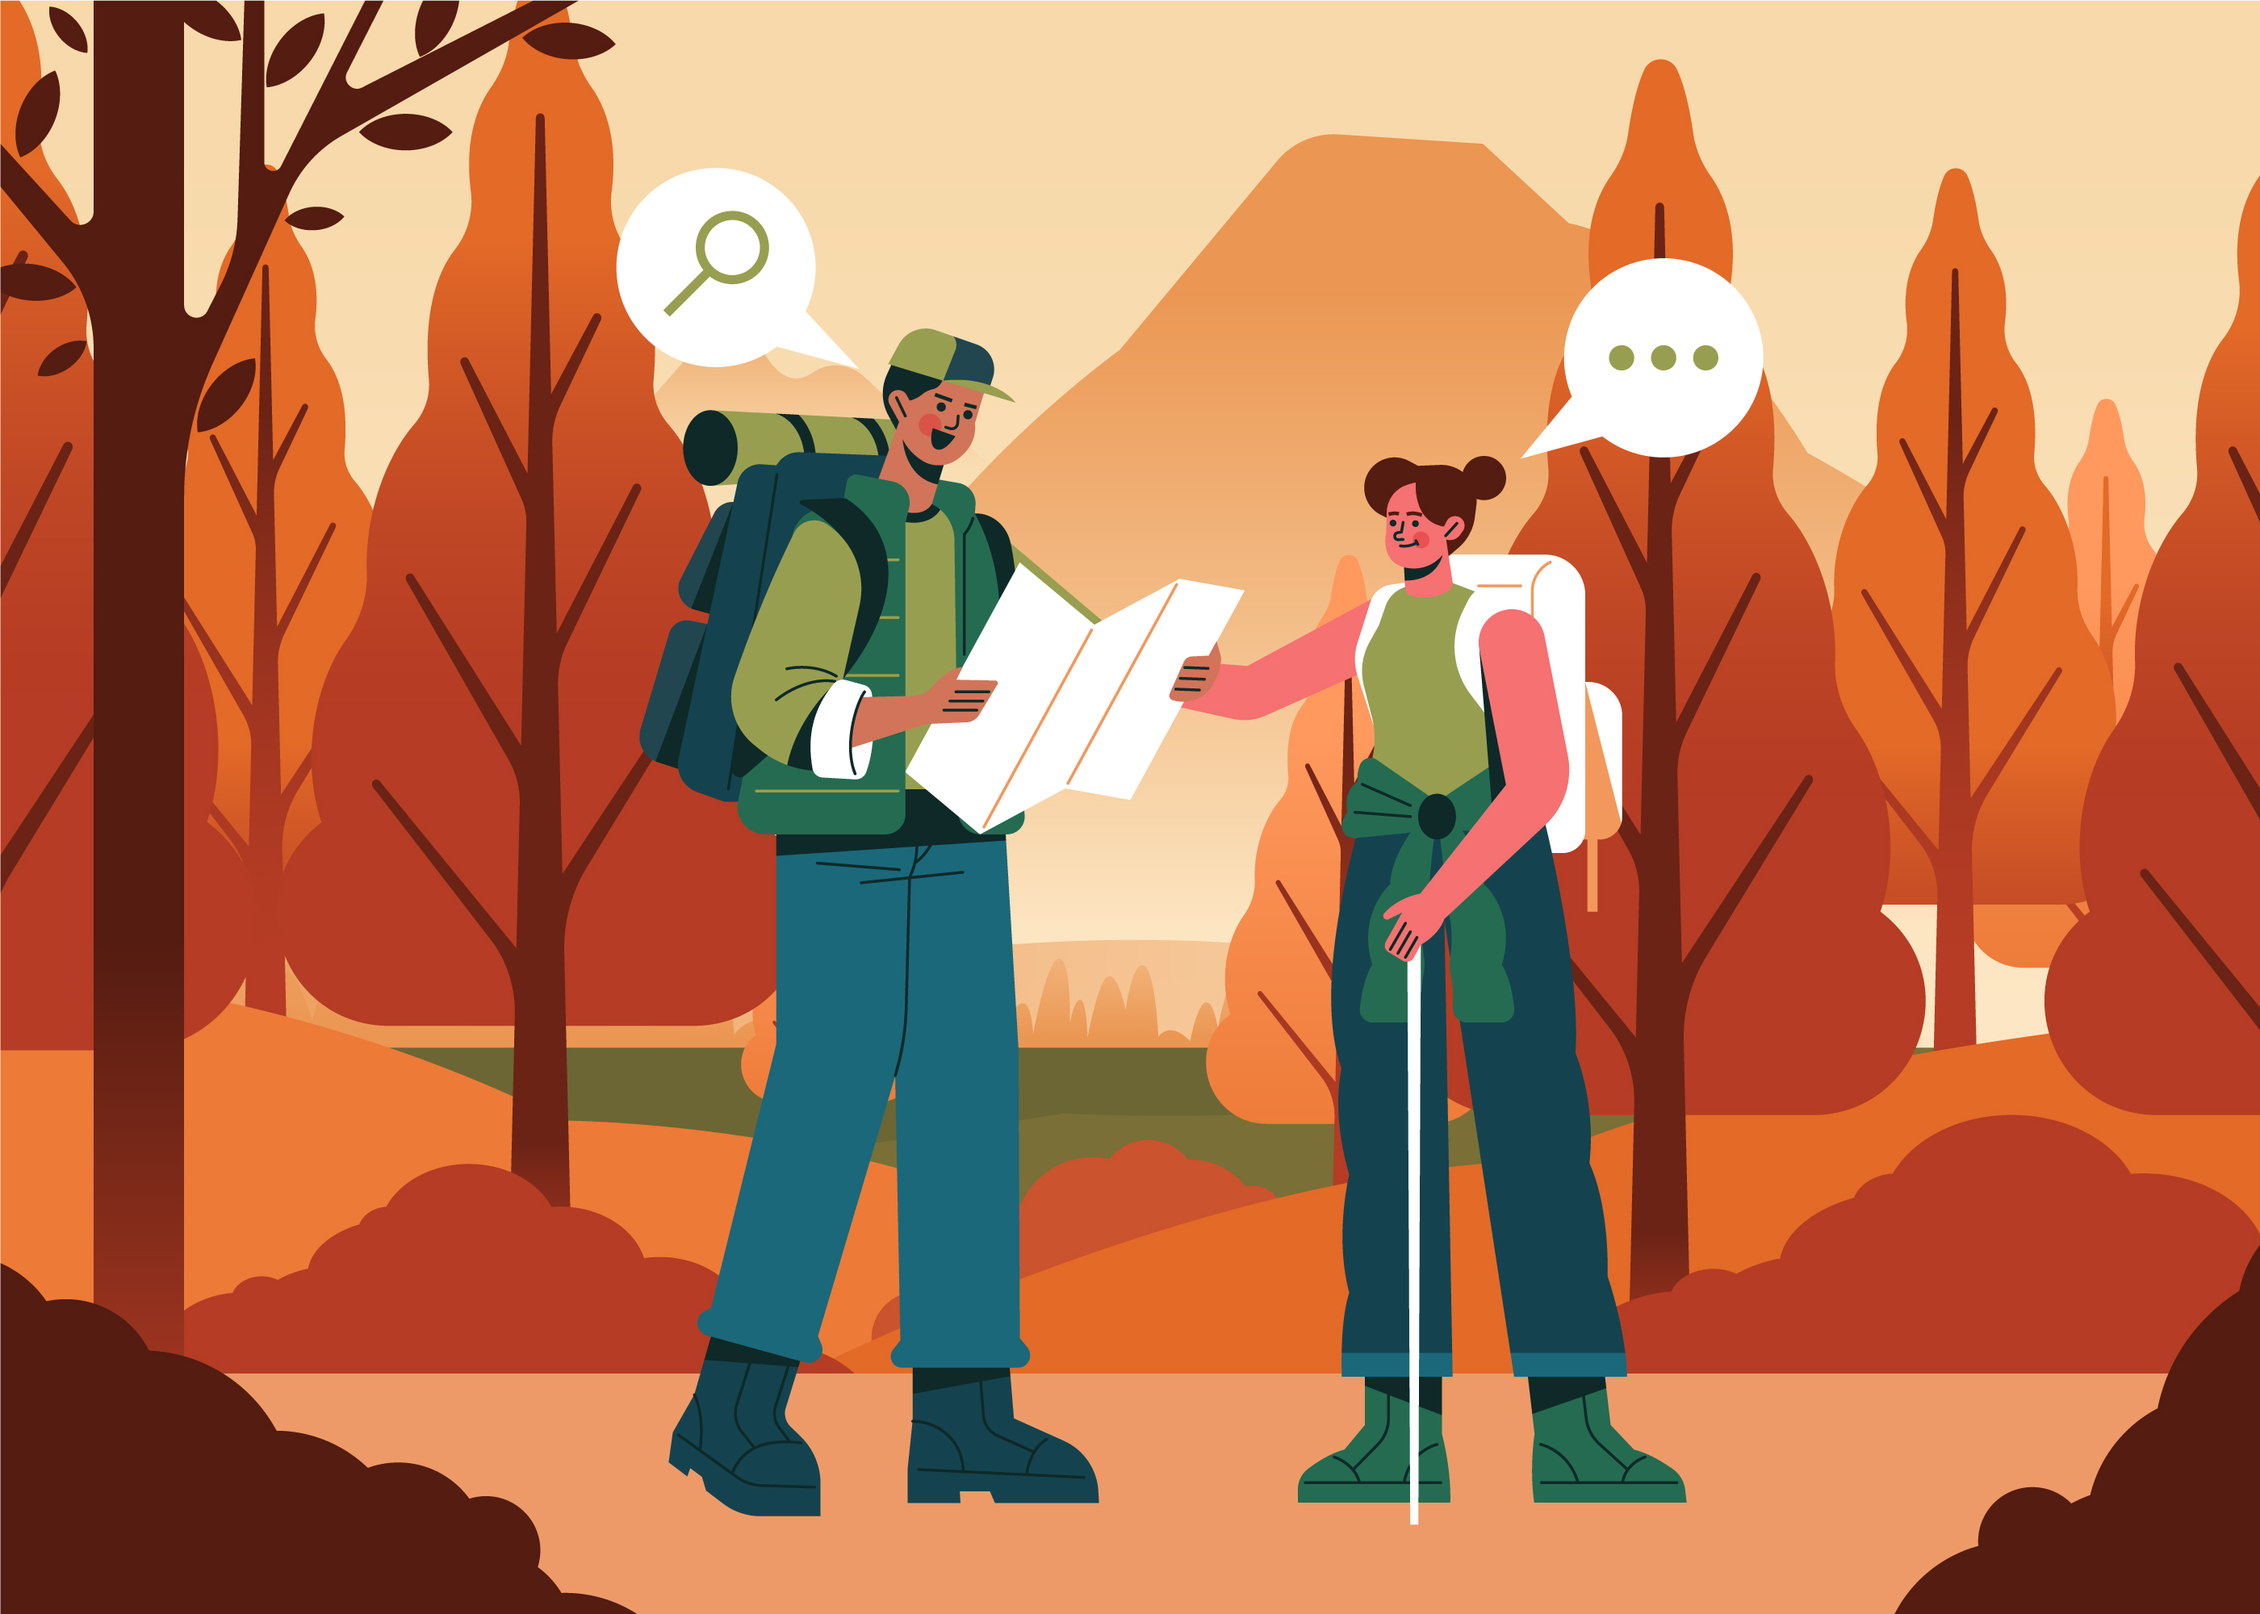
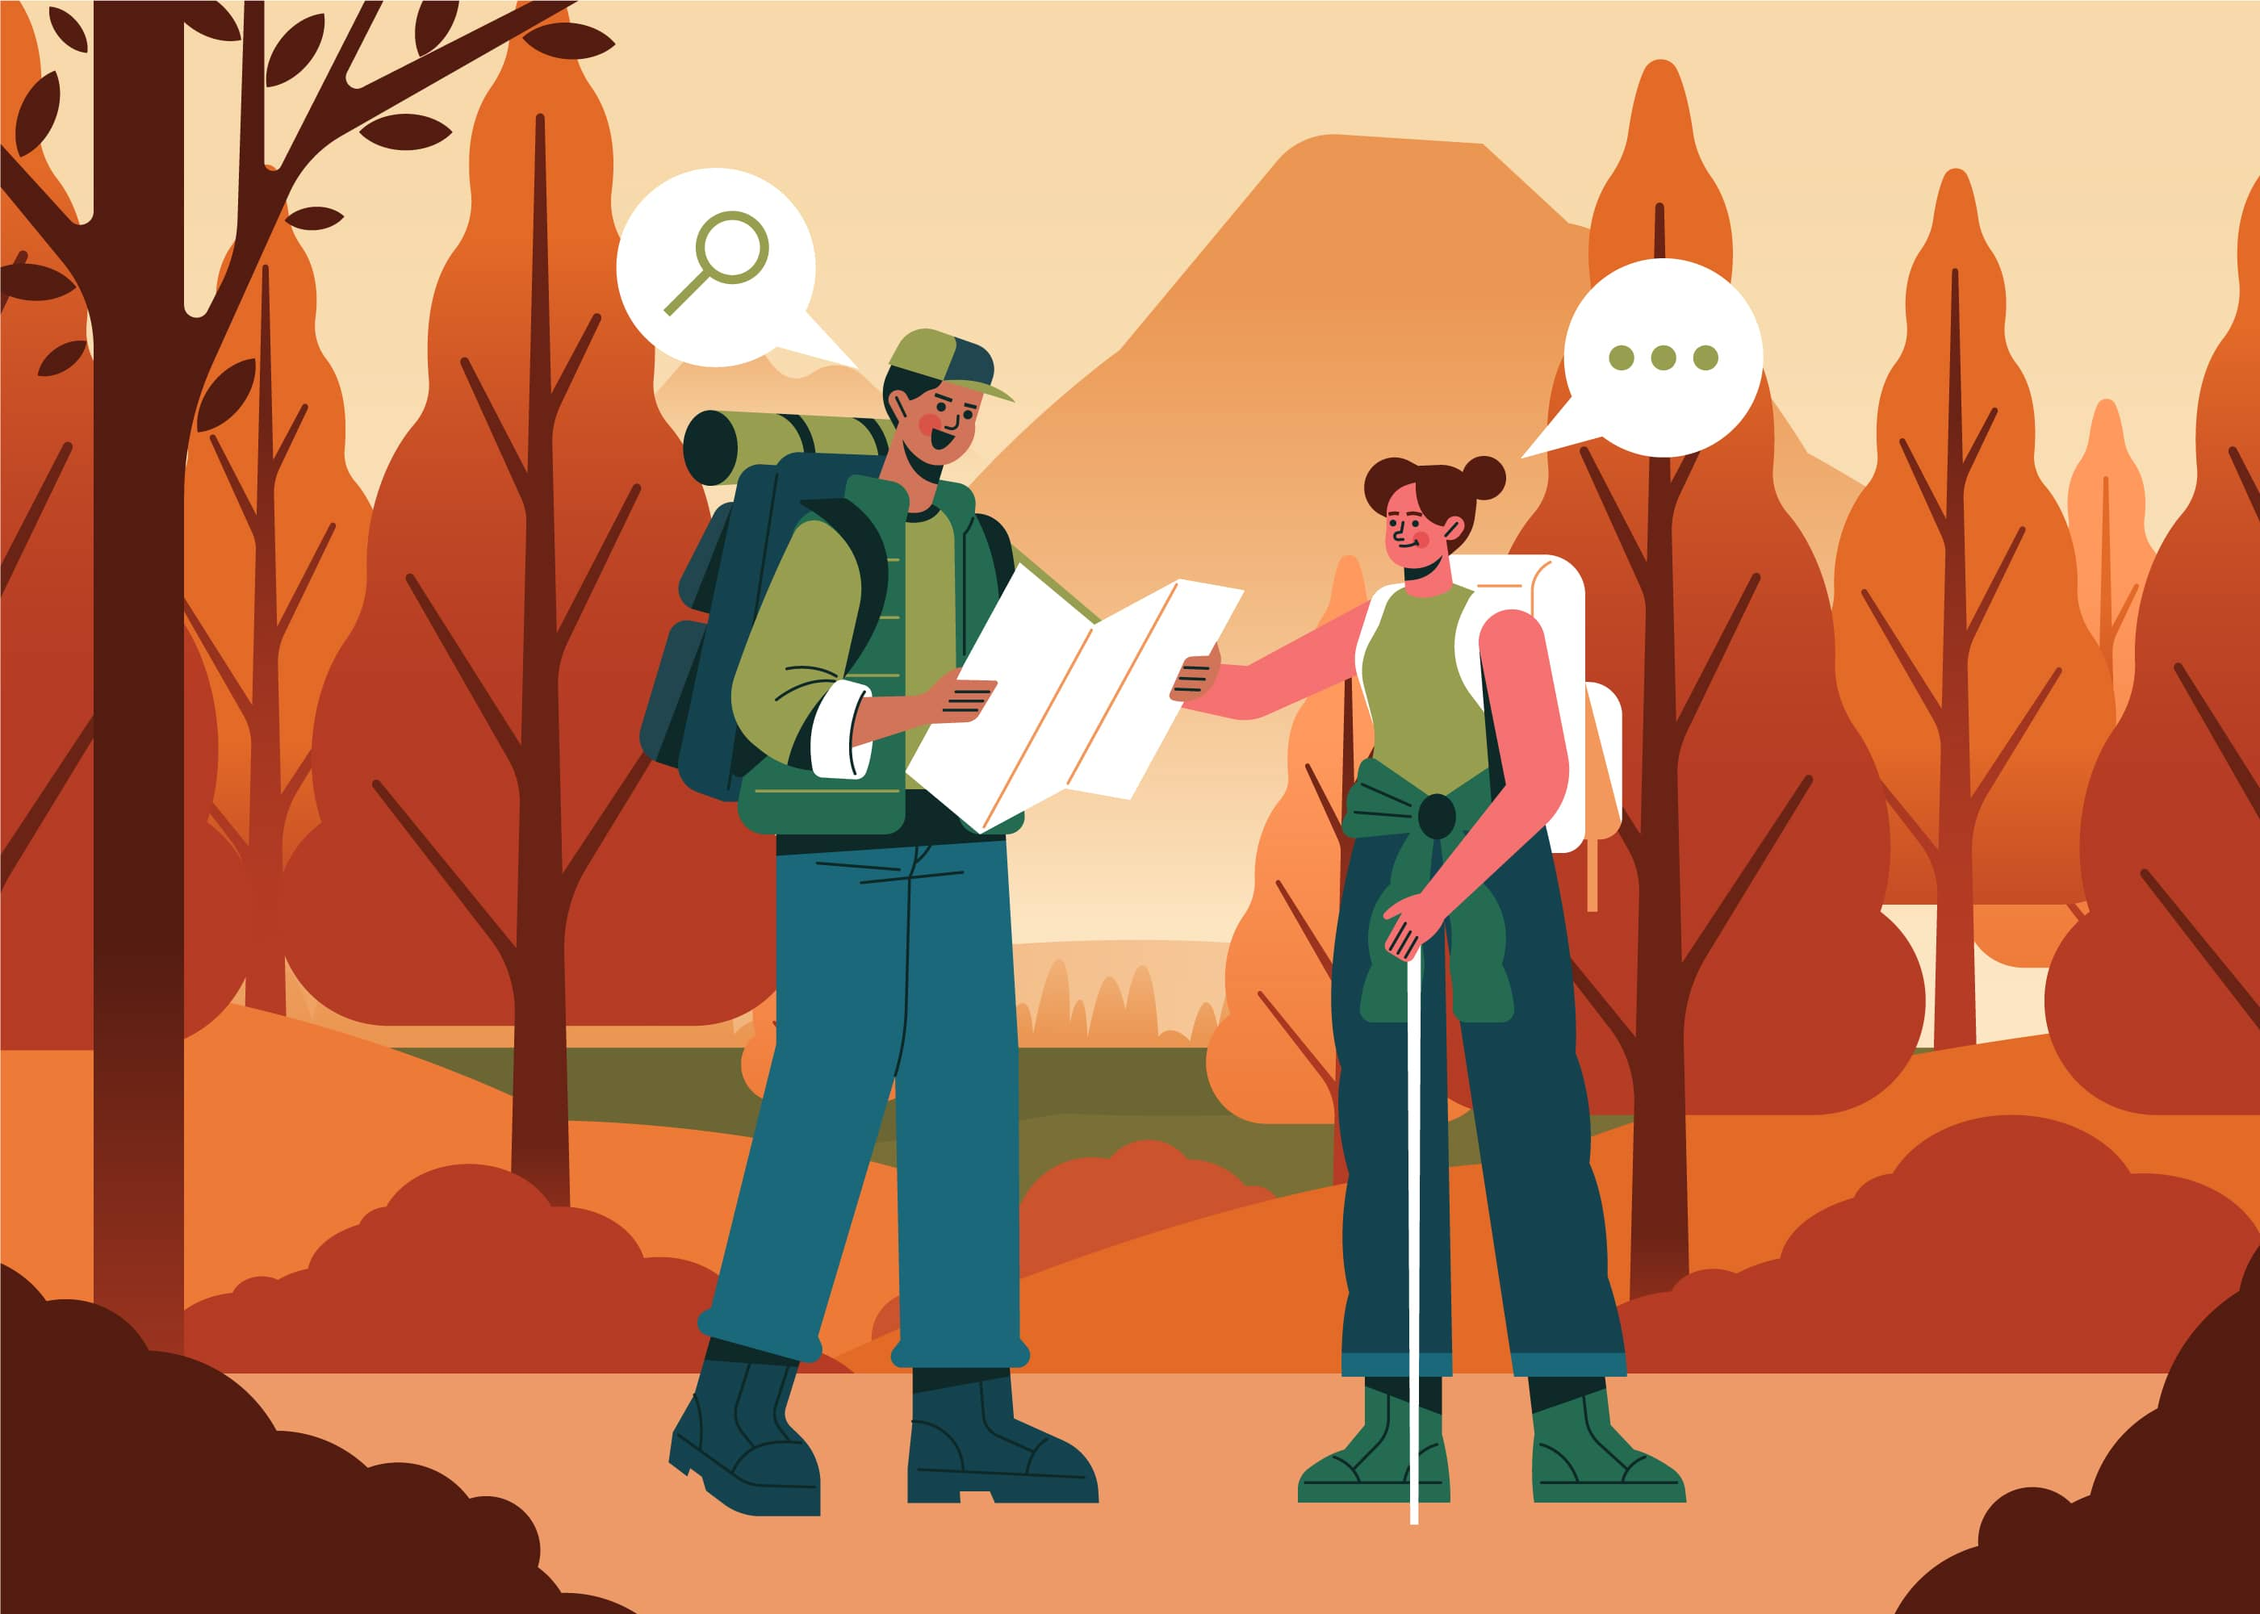
delete unnecessary images

diff --git a/components/footer.js b/components/footer.js
@@ -72,15 +72,6 @@ export default function Footer () {
                 <span className='sr-only'>Instagram</span>
                 <Instagram />
               </a>
-              <a
-                href='/'
-                target='_blank'
-                rel='noopener noreferrer'
-                className='hover:text-[#ec5153]'
-              >
-                <span className='sr-only'>Facebook</span>
-                <Facebook />
-              </a>
             </div>
           </div>
         </div>
@@ -92,18 +83,6 @@ export default function Footer () {
     </div>
   )
 }
-
-const Facebook = ({ size = 24 }) => (
-  <svg
-    xmlns='http://www.w3.org/2000/svg'
-    width={size}
-    height={size}
-    viewBox='0 0 24 24'
-    fill='currentColor'
-  >
-    <path d='M24 12.07C24 5.41 18.63 0 12 0S0 5.4 0 12.07C0 18.1 4.39 23.1 10.13 24v-8.44H7.08v-3.49h3.04V9.41c0-3.02 1.8-4.7 4.54-4.7 1.31 0 2.68.24 2.68.24v2.97h-1.5c-1.5 0-1.96.93-1.96 1.89v2.26h3.32l-.53 3.5h-2.8V24C19.62 23.1 24 18.1 24 12.07' />
-  </svg>
-)
 
 const Instagram = ({ size = 24 }) => (
   <svg

diff --git a/components/data.js b/components/data.js
@@ -9,8 +9,8 @@ import {
   UsersIcon
 } from '@heroicons/react/24/solid'
 
-import benefitOneImg from '../public/images/benefit-one.png'
-import benefitTwoImg from '../public/images/benefit-two.png'
+import benefitOneImg from '../public/images/benefit-one.webp'
+import benefitTwoImg from '../public/images/benefit-two.webp'
 
 const benefitOne = {
   title: '¿Qué hace Trekkkr?',
